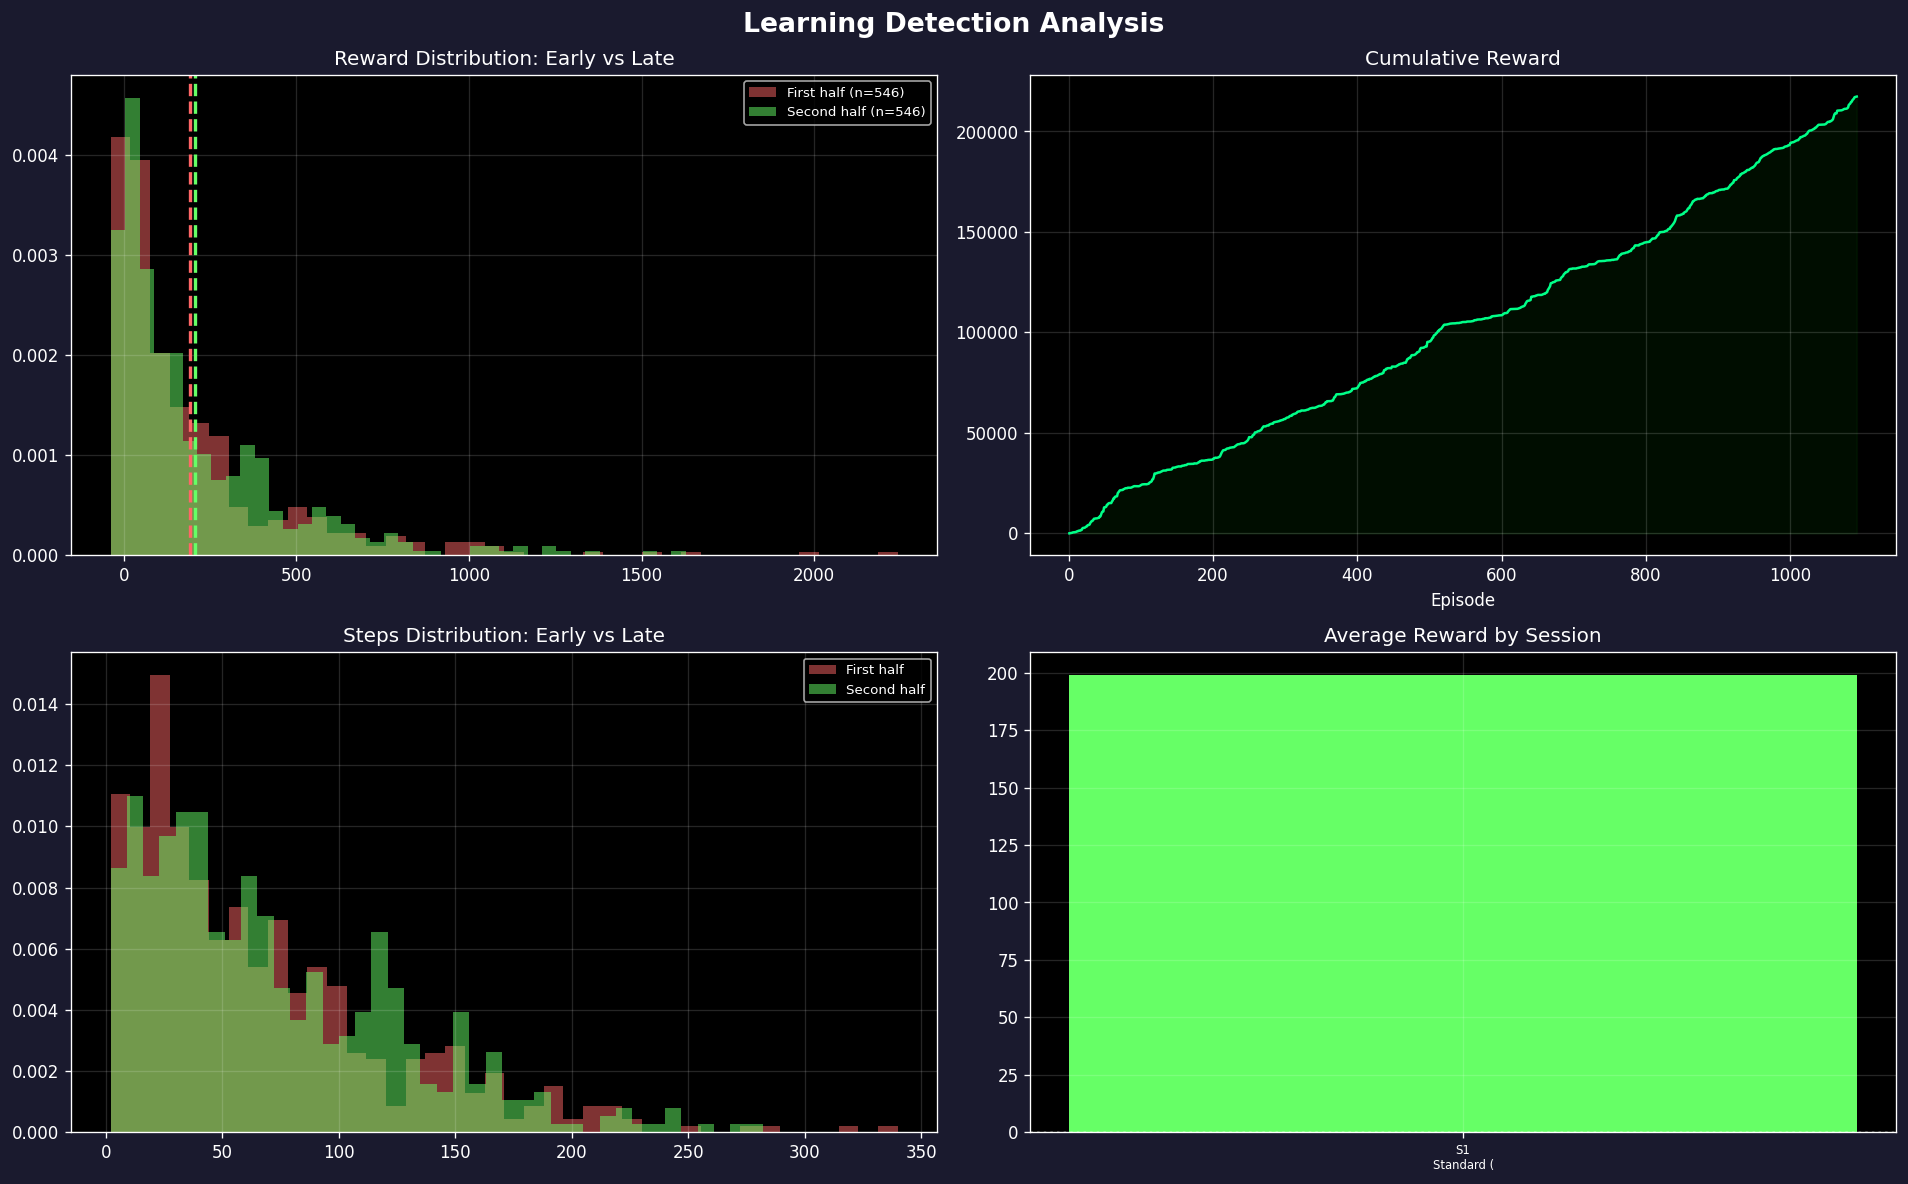
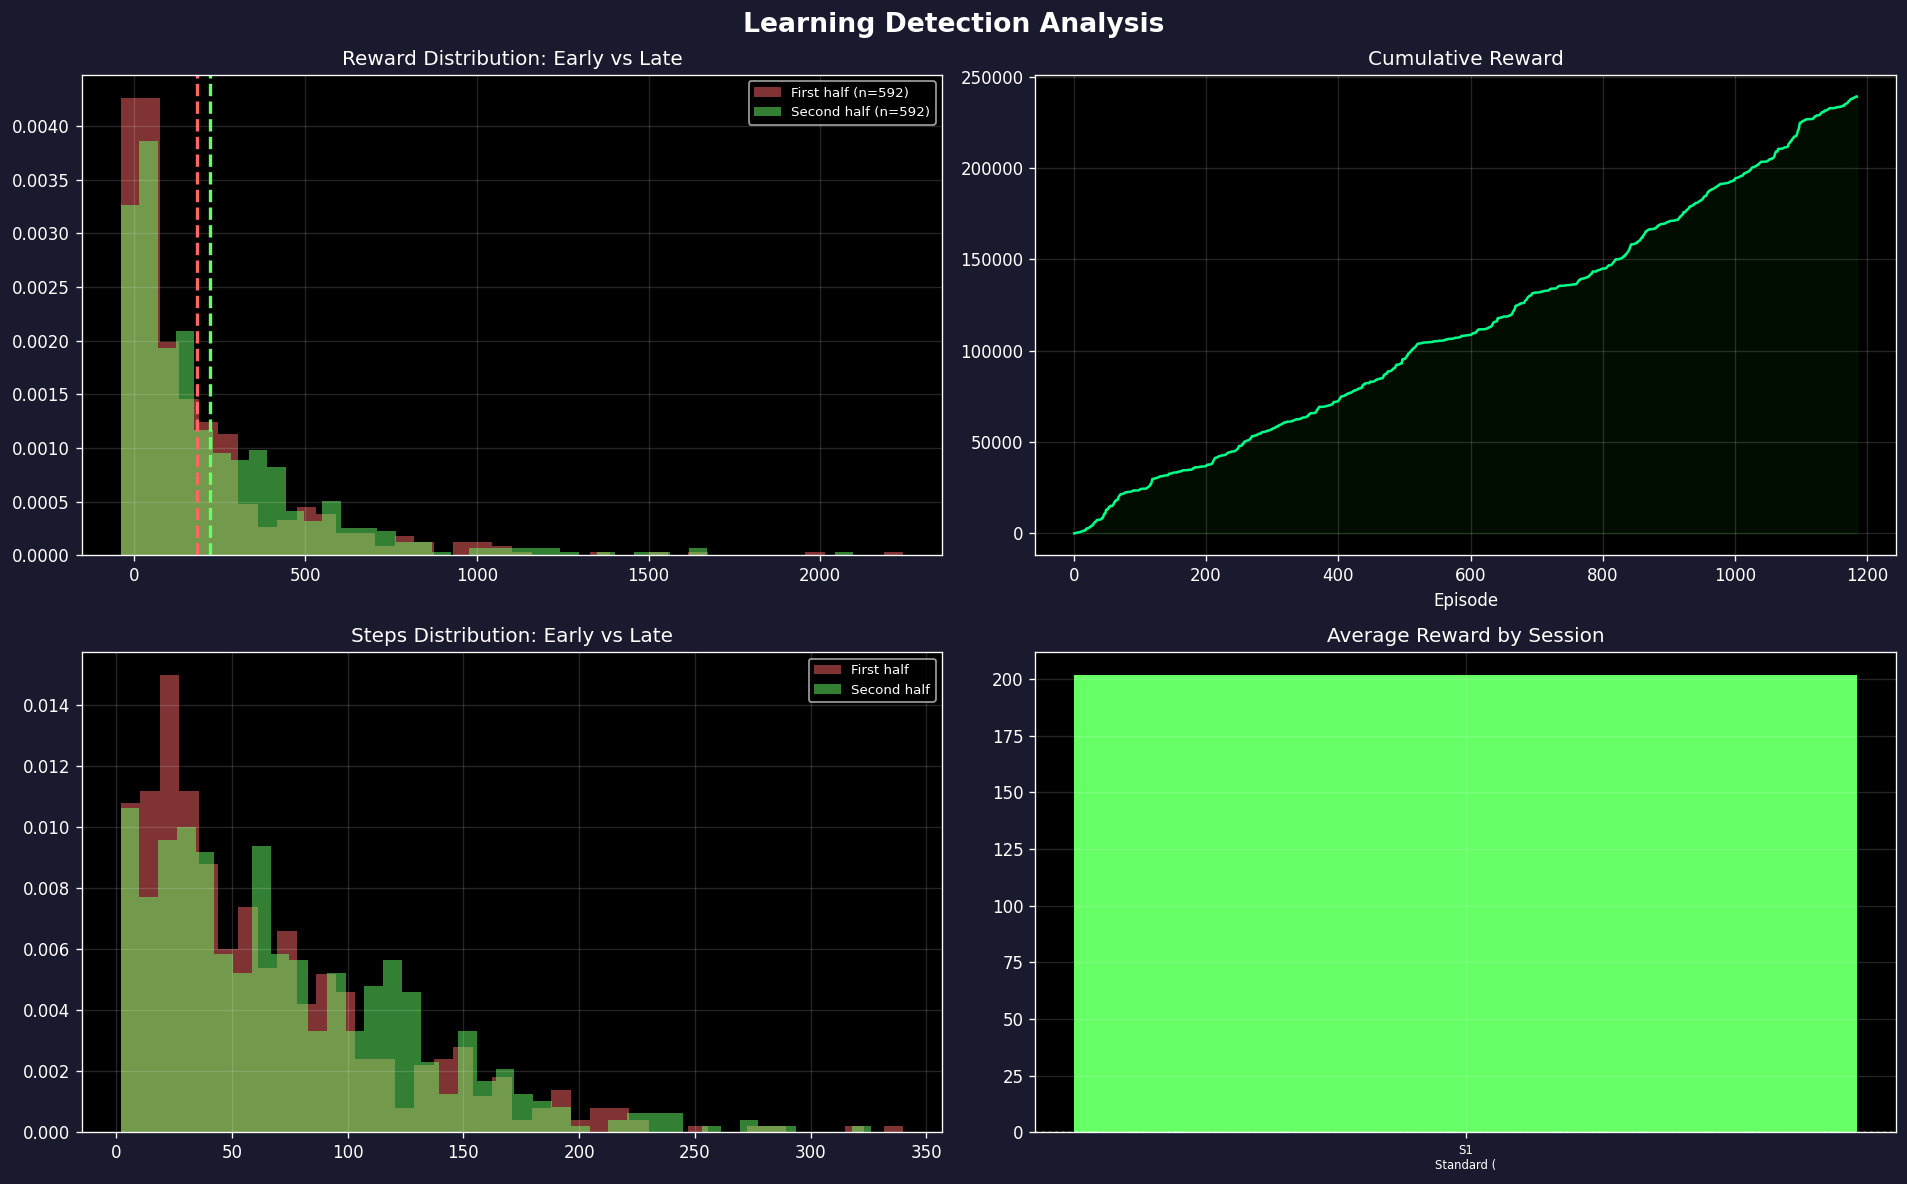
stats

diff --git a/gen2/progress_report.md b/gen2/progress_report.md
@@ -1,7 +1,7 @@
 # Slither.io Bot - Training Progress Report
 
-**Generated:** 2026-02-12 23:45:38  
-**Total Episodes:** 1092  
+**Generated:** 2026-02-12 23:55:42  
+**Total Episodes:** 1184  
 **Training Sessions:** 1
 
 ## Verdict: NOT LEARNING (Confidence: 45%)
@@ -9,29 +9,29 @@
 **Goal Feasibility:** UNLIKELY (5-25% chance) without tuning
 
 ### Warnings
-- Rewards flat: change = 13.0 between halves
+- Rewards flat: change = 38.3 between halves
 
 ## Key Statistics
 
 | Metric | Mean | Std | Min | Max | P50 | P95 |
 |--------|------|-----|-----|-----|-----|-----|
-| Reward | 199.07 | 265.70 | -38.58 | 2242.28 | 101.36 | 716.78 |
-| Steps | 68.20 | 55.11 | 2.00 | 340.00 | 54.00 | 173.90 |
-| Food | 28.63 | 10.97 | 0.00 | 77.00 | 26.00 | 49.00 |
-| Loss | 12.61 | 35.81 | 0.53 | 392.24 | 6.54 | 20.33 |
+| Reward | 201.90 | 273.67 | -38.58 | 2242.28 | 102.97 | 719.66 |
+| Steps | 68.62 | 55.86 | 2.00 | 340.00 | 54.00 | 174.85 |
+| Food | 28.75 | 11.13 | 0.00 | 84.00 | 26.00 | 49.00 |
+| Loss | 12.34 | 34.42 | 0.53 | 392.24 | 6.68 | 19.71 |
 
 ## Goal Progress
 
 | Target | Current Best | Goal | Progress |
 |--------|-------------|------|----------|
-| Points | 77 | 6,000 | 1.3% |
+| Points | 84 | 6,000 | 1.4% |
 | Survival | 11.3 min | 60 min | 18.9% |
 
 ## Session History
 
 | # | Style | Episodes | Avg Reward | Avg Steps |
 |---|-------|----------|------------|----------|
-| 1 | Standard (Curriculum) | 1-1092 | 199.1 | 68 |
+| 1 | Standard (Curriculum) | 1-1184 | 201.9 | 69 |
 
 ## Recommendations
 
